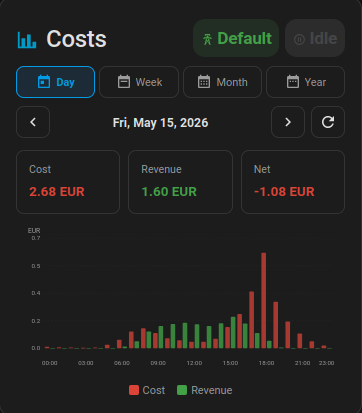
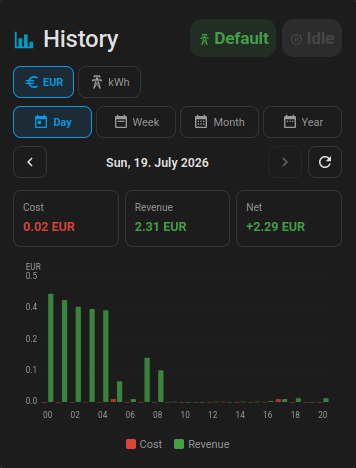
release 2.0.0

diff --git a/README.md b/README.md
@@ -77,8 +77,6 @@ view: settings
 
 | Option | Type | Default | Description |
 | --- | --- | --- | --- |
-| `title` | string | `Victron Charge Control` | Card title shown in the header. |
-| `entity_prefix` | string | `victron_charge_control` | Prefix used by the backend integration entities. |
 | `view` | string | `settings` | Card view: `settings`, `plan`, or `history`. |
 
 | Settings | Plan |
@@ -93,7 +91,7 @@ view: settings
 > the card as a separate HACS "Dashboard" repository
 > (`Victron-Charge-Controller-Dashboard`). That repository is now deprecated.
 > Remove the old `/local/victron-charge-controller-card.js` Lovelace resource
-> and update this integration to `>= 1.3.0` — the card comes bundled.
+> and update this integration to `>= 2.0.0` — the card comes bundled.
 
 ## Requirements
 